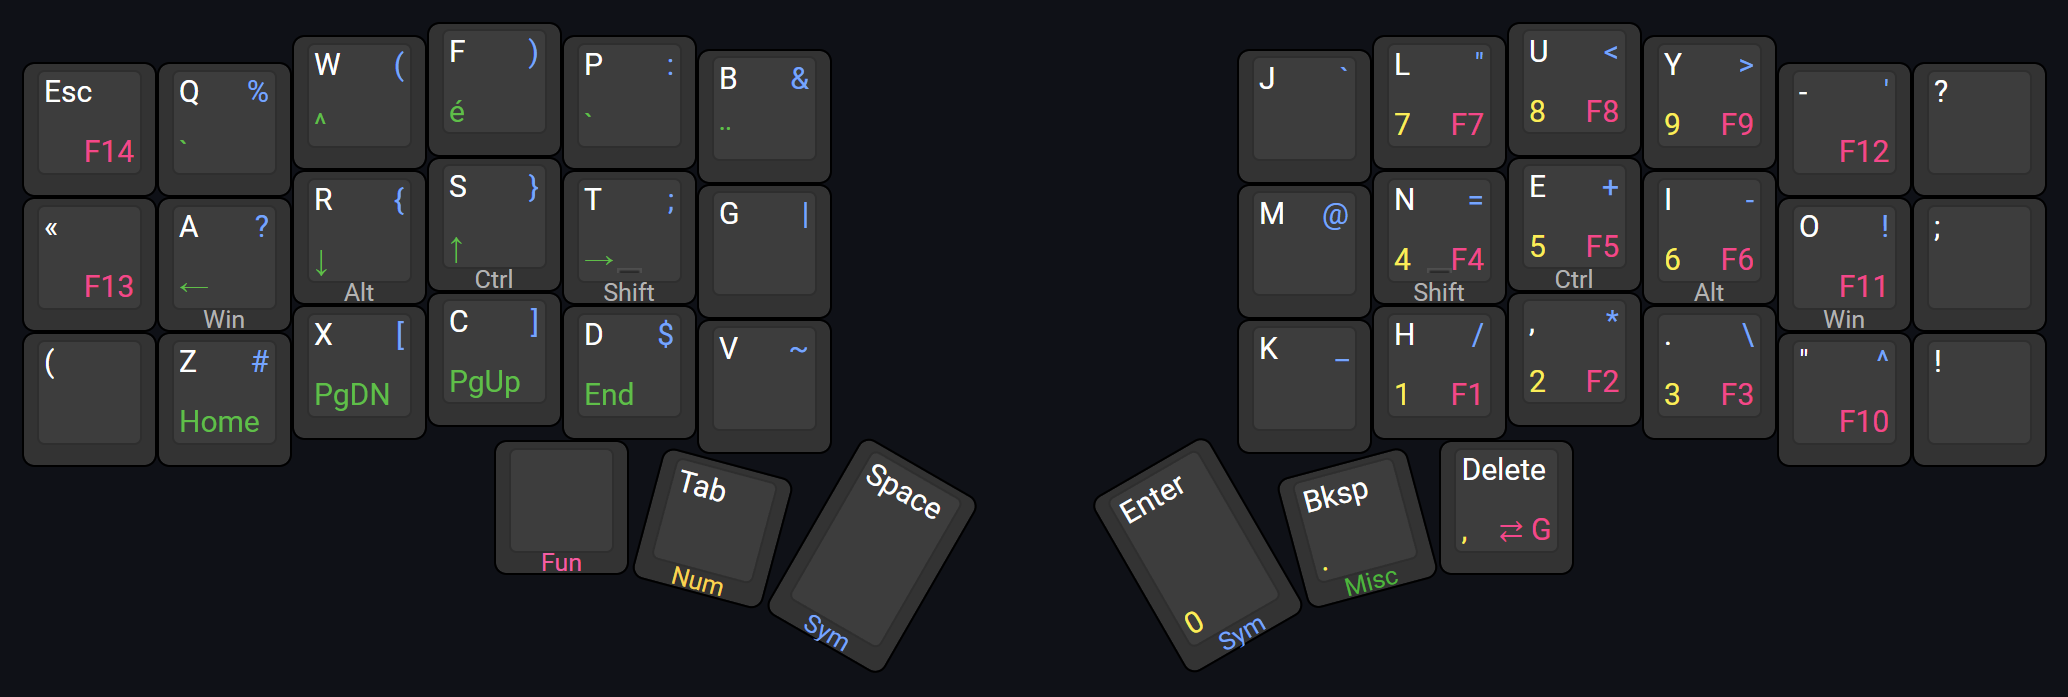
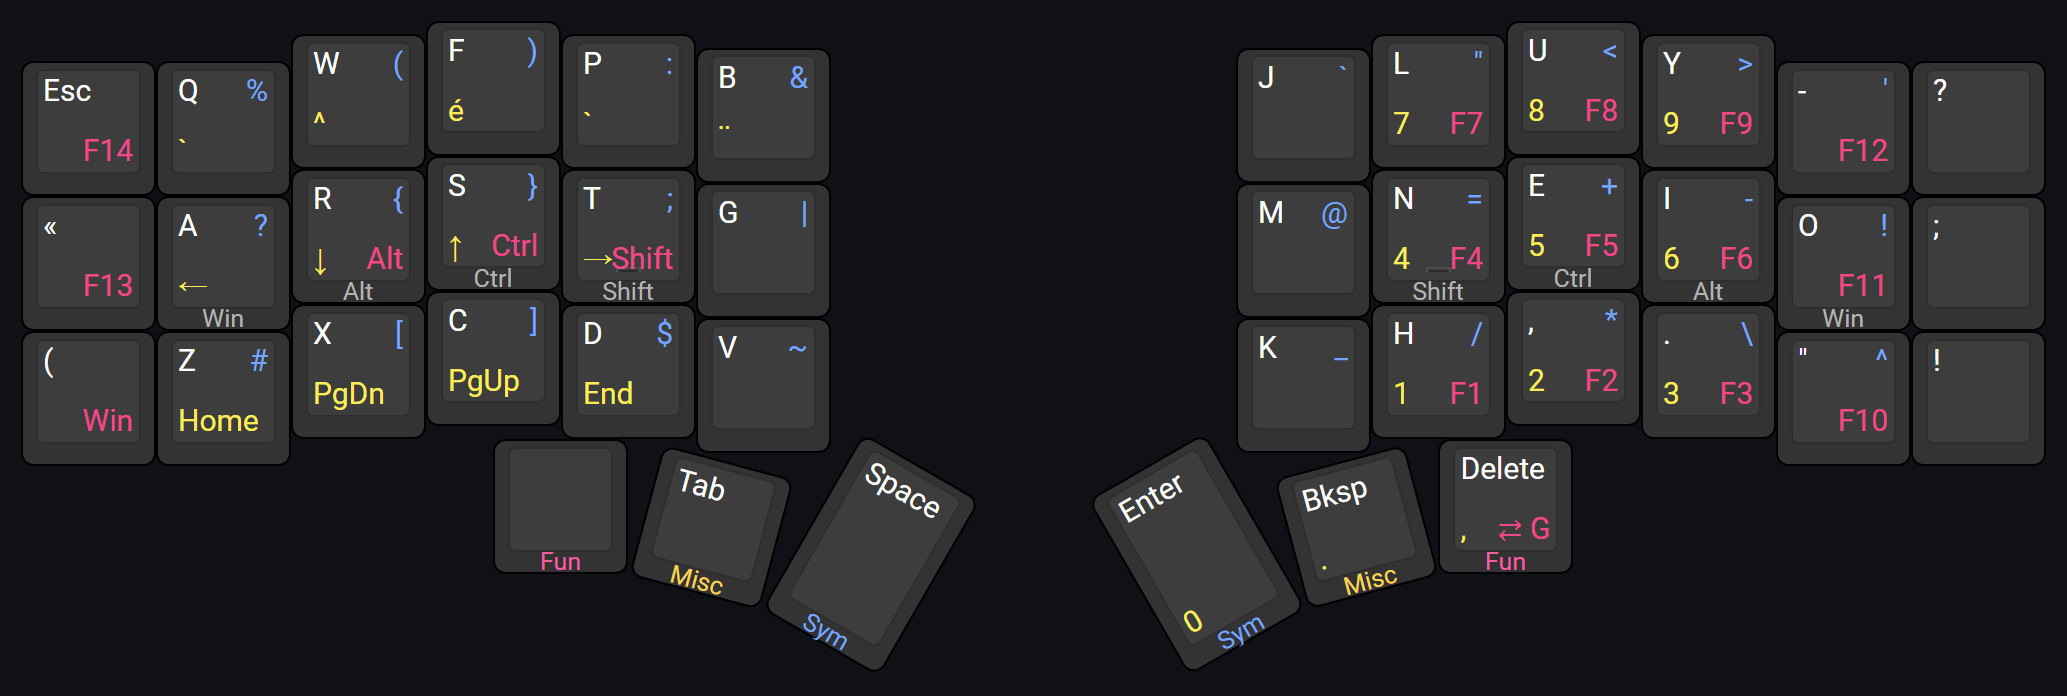
feat: add modifiers to func layer

diff --git a/README.md b/README.md
@@ -1,14 +1,15 @@
 # kevinpastor's zmk-config
 
-This is my personal [ZMK firmware](https://github.com/zmkfirmware/zmk/) configuration. It consists of a 42-keys base layout that is used for my Corne keyboard.
+This is my personal [ZMK firmware](https://github.com/zmkfirmware/zmk/) configuration. It consists of a 42-keys base layout that I use for my Corne keyboard.
 
 ## Highlights
 
-- Keymap for Canadian French Windows layout using helper macros from
-  [zmk-nodefree-config](https://github.com/urob/zmk-nodefree-config)
 - Gaming layers crafted for FPS games
-- Symbol layer based off [Pascal Getreuer's article](https://getreuer.info/posts/keyboards/symbol-layer/index.html)
 - ["Timer-less" homerow mods](#timeless-homerow-mods)
+- Symbol layer based off [Pascal Getreuer's article](https://getreuer.info/posts/keyboards/symbol-layer/index.html)
+- Keymap for Canadian French Windows layout
+- Helper macros from
+  [zmk-nodefree-config](https://github.com/urob/zmk-nodefree-config)
 
 ## Layers
 
@@ -17,9 +18,13 @@ This is my personal [ZMK firmware](https://github.com/zmkfirmware/zmk/) configur
 ![Standard layers preview](img/standard-keymap.png)
 *Layout preview generated on [keyboard-layout-editor.com](http://www.keyboard-layout-editor.com/#/gists/14c5c6b4de6c618dfc265b5b77a0cff0)*
 
-The overall design of the standard layers has been greatly influenced by the gaming layers. The reasoning behind this is to keep the same muscle memory across both groups of layers.
+The overall design of the standard layers has been greatly influenced by the gaming layers described below. The reasoning behind this is to keep the same muscle memory across both groups of layers.
 
-Some macros have been used for symbols because of an issue when using Windows RDP with the keyboard over Bluetooth.
+Home row mods is setup to use the right variant of the modifiers on the right hand side to allow to switch hand if the modifier on the wrong hand was pressed. The right hand side `Alt` is the exception to this to avoid having `AltGr` registered with the Canadian French Windows layout.
+
+The Canadian French Windows layout needs to be used in order for the symbols and some other characters to register properly.
+
+Some macro behaviors have been used for symbols because of an issue when using Windows RDP with the keyboard over Bluetooth.
 
 #### Alpha Layer
 
@@ -31,23 +36,27 @@ Homerow mods are active for that layer.
 
 The symbols layer as been greatly inspired by [an article by Pascal Getreuer](https://getreuer.info/posts/keyboards/symbol-layer/index.html). The main difference is the mirroring of its layer to ensure inward rolls are possible for the `{`, `}`, `(`, `)`, `[`, and `]` keys.
 
-Homerow mods are always active for that layer.
-
-#### Numbers Layer
-
-The numbers layer has been designed to simply mimic the numpad on a standard keyboard. A comma was added to support French decimal numbering notation.
-
-Homerow mods are always active for that layer to support key combination as `CTRL + 1`.
+Homerow mods are active for that layer.
 
 #### Miscellaneous Layer
 
-The miscellaneous layer has been designed to provide extra keys like arrows and French accents. The arrows have been placed on the home row to avoid hand movement. Since the left hand is often used for movement in games using WASD, the position of the up arrow has been decided according to the usual finger on the W key (i.e. the middle finger). Home row mods have been disabled on the left hand for that layer in order to be able to long press arrow keys. Accents have been placed on a row according to their frequency in French.
+The miscellaneous layer has been designed to provide numbers as well as extra keys like arrows and French accents. 
+
+On the right side, the numbers have been place to mimic the numpad on a standard keyboard. A comma was added to support French decimal numbering notation.
+
+The arrows have been placed on the home row to avoid hand movement. Since the left hand is often used for movement in games using WASD, the position of the up arrow has been decided according to the usual finger on the W key (i.e. the middle finger).
+
+Accents have been placed on a row according to their frequency in French.
+
+Home row mods are only active on the right hand for that layer. This allows long press of the arrow keys. 
 
 #### Functions Layer
 
-The functions layer has been designed to resemble the numbers layer as close as possible. Numbers past 9 were placed in regards to ergonomics.
+The functions layer has been designed to resemble the numbers layer as close as possible. Function keys past `F9` were placed in regards to ergonomics.
 
 The `F13` and `F14` keys have been made available to use as dedicated mute and deafen shortcuts on Discord. They are position and accessed exactly the same on the gaming layers.
+
+Home row mods are not active for that layer. Instead, the left hand side provides the modifier keys "as is" to be able to access them instantly without having to wait for the home row mods timeout. This is useful for side-scrolling with `Shift` and the scroll wheel or for zooming on a page with `Ctrl` and the scroll wheel.
 
 ### Gaming Layers
 
